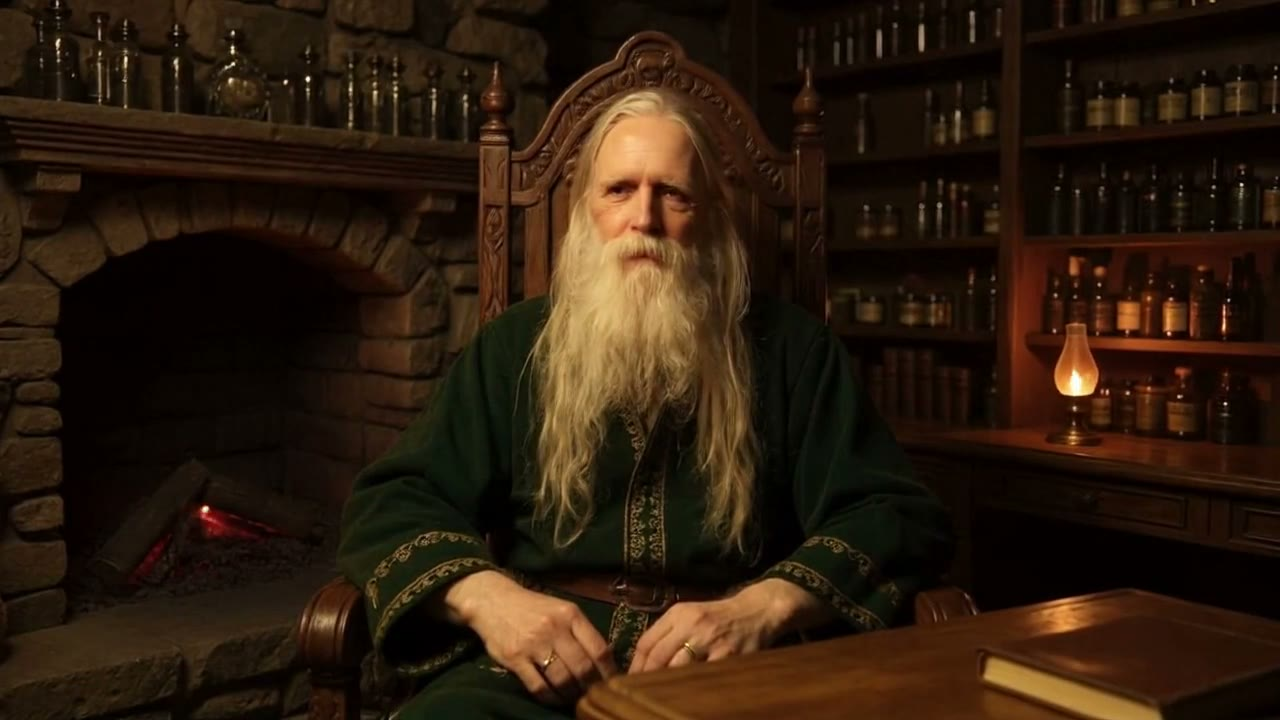
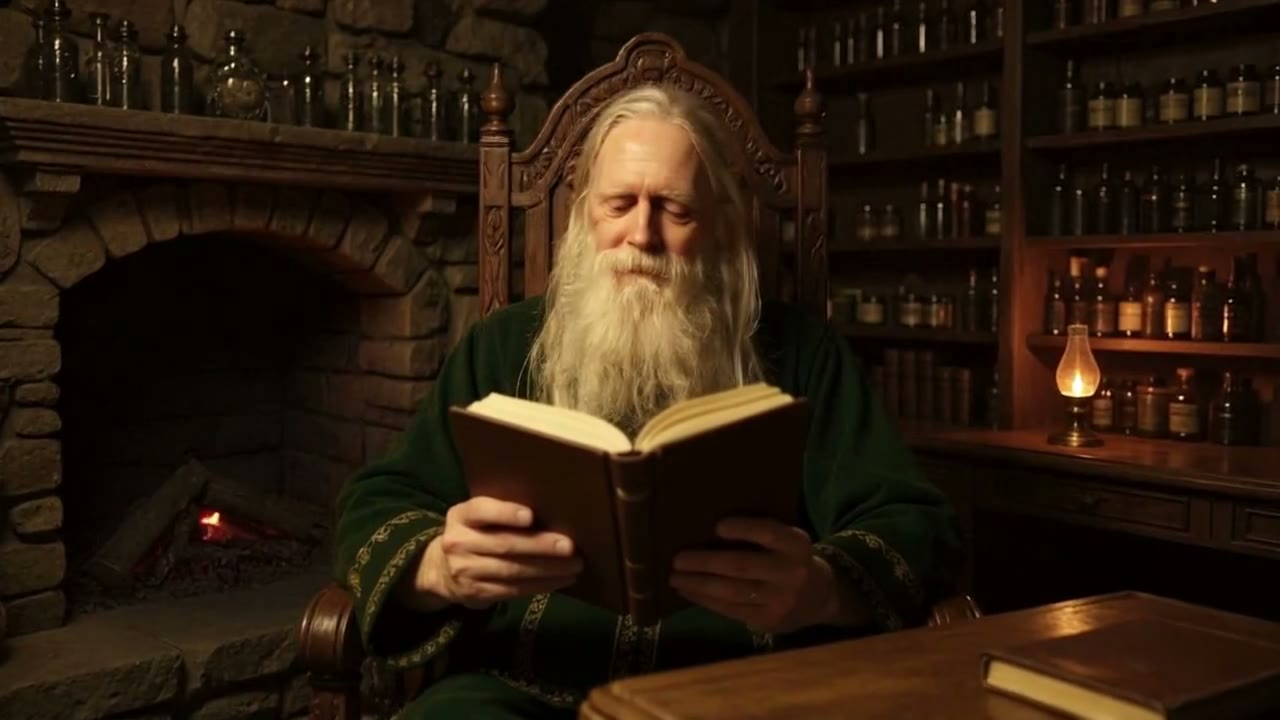
Glendalf fireside: book intro — reading loops until the visitor engages, then welcome
Replaces the black placeholder intro with a narrative entry: Glendalf is
absorbed in his book (intro_read loops), and the visitor's first click/type in
the chat makes him notice them, set the book down, and welcome them
(intro_welcome video + intro_welcome_audio in Glen's clone), then the
conversation begins. New manifest fields intro_read/intro_welcome/
intro_welcome_audio (normalizer + page state machine + test). 31/31 tests pass.

diff --git a/static/begin-fireside.html b/static/begin-fireside.html
@@ -256,18 +256,45 @@
     if (!manifest) return;
     overlay.remove();
     state = 'intro';
-    setVideo(manifest.intro_video, {loop: false});
-    stage.muted = false;
-    stage.onended = function () { stage.muted = true; listening(); say.focus(); };
-    // safety: if the intro can't play, fall straight to listening
-    stage.play().catch(function () { listening(); say.focus(); });
+    if (manifest.intro_read) {
+      // He's absorbed in his book; the reading LOOPS until the visitor engages.
+      setVideo(manifest.intro_read, {loop: true});
+      stage.muted = true;
+      stage.onended = null;
+      stage.play().catch(function () { toWelcome(); });
+      // first click/type in the chat makes him notice you
+      say.addEventListener('focus', armWelcome, {once: true});
+      say.addEventListener('input', armWelcome, {once: true});
+    } else {
+      // legacy single intro video
+      setVideo(manifest.intro_video, {loop: false});
+      stage.muted = false;
+      stage.onended = function () { stage.muted = true; listening(); say.focus(); };
+      stage.play().catch(function () { listening(); say.focus(); });
+    }
+  }
+
+  function armWelcome() { if (state === 'intro') toWelcome(); }
+
+  function toWelcome() {
+    if (state !== 'intro') return;
+    state = 'intro-welcome';
+    if (manifest.intro_welcome) {
+      setVideo(manifest.intro_welcome, {loop: false});
+      stage.muted = true;
+      if (manifest.intro_welcome_audio) {
+        try { replyAudio.src = manifest.intro_welcome_audio; replyAudio.play().catch(function () {}); } catch (e) {}
+      }
+      stage.onended = function () { listening(); say.focus(); };
+      stage.play().catch(function () { listening(); say.focus(); });
+    } else { listening(); say.focus(); }
   }
 
   // --- wire up ---
   composer.addEventListener('submit', function (e) {
     e.preventDefault();
     var m = say.value.trim();
-    if (!m || state === 'intro' || state === 'pondering' || state === 'speaking' || state === 'ended') return;
+    if (!m || state === 'intro' || state === 'intro-welcome' || state === 'pondering' || state === 'speaking' || state === 'ended') return;
     say.value = '';
     sendTurn(m);
   });

diff --git a/static/fireside/manifest-normalize.js b/static/fireside/manifest-normalize.js
@@ -54,6 +54,9 @@ export function normalizeManifest(raw) {
   return {
     intro_video: str(m.intro_video),
     intro_poster: str(m.intro_poster),
+    intro_read: str(m.intro_read),               // looping "reading" state until the visitor engages
+    intro_welcome: str(m.intro_welcome),         // notice -> set book down -> welcome (on first interaction)
+    intro_welcome_audio: str(m.intro_welcome_audio),
     speaking_loop: speaking || (speakingLoops[0] || null),
     speaking_loops: speakingLoops,
     pondering_loops: pondering,